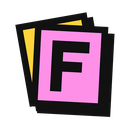
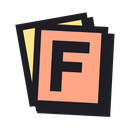
Refine Neobrutalism UI with harmonious warm pastel color palette

Changed region(s): [[0.1562, 0.1562, 0.8125, 0.8125]]

diff --git a/js/content.js b/js/content.js
@@ -63,10 +63,10 @@
         align-items: center;
         gap: 6px;
         padding: 6px 11px;
-        background: #ffd43b;
-        color: #111111;
-        border: 2px solid #111111;
-        box-shadow: 3px 3px 0 #111111;
+        background: #f2e4c6;
+        color: #1e1e24;
+        border: 2px solid #1e1e24;
+        box-shadow: 3px 3px 0 #1e1e24;
         font-size: 12px;
         font-weight: 900;
         cursor: pointer;
@@ -74,17 +74,17 @@
         transition: transform 0.08s, box-shadow 0.08s, background 0.08s;
       }
       .fc-fab:hover {
-        background: #ff90e8;
+        background: #ffa686;
         transform: translate(-1px, -1px);
-        box-shadow: 4px 4px 0 #111111;
+        box-shadow: 4px 4px 0 #1e1e24;
       }
       .fc-fab-logo {
         display: inline-grid;
         place-items: center;
         width: 18px;
         height: 18px;
-        background: #ff90e8;
-        border: 1.5px solid #111111;
+        background: #ffa686;
+        border: 1.5px solid #1e1e24;
         font-size: 11px;
         font-weight: 900;
       }
@@ -92,10 +92,10 @@
         position: fixed;
         pointer-events: auto;
         width: 310px;
-        background: #fff7e8;
-        color: #111111;
-        border: 3px solid #111111;
-        box-shadow: 6px 6px 0 #111111;
+        background: #faf7f2;
+        color: #1e1e24;
+        border: 3px solid #1e1e24;
+        box-shadow: 6px 6px 0 #1e1e24;
         padding: 16px 18px 18px;
         display: flex;
         flex-direction: column;
@@ -116,30 +116,30 @@
       .fc-close {
         width: 24px;
         height: 24px;
-        border: 2px solid #111111;
+        border: 2px solid #1e1e24;
         background: #ffffff;
-        box-shadow: 2px 2px 0 #111111;
+        box-shadow: 2px 2px 0 #1e1e24;
         font-size: 16px;
         font-weight: 900;
         line-height: 1;
         cursor: pointer;
         display: grid;
         place-items: center;
-        color: #111111;
+        color: #1e1e24;
       }
-      .fc-close:hover { background: #ff90e8; }
+      .fc-close:hover { background: #ffd1bf; }
       .fc-field {
         width: 100%;
         padding: 10px 12px;
-        border: 2px solid #111111;
+        border: 2px solid #1e1e24;
         background: #ffffff;
-        color: #111111;
+        color: #1e1e24;
         font-size: 13.5px;
         font-weight: 600;
         outline: none;
       }
       .fc-field:focus {
-        box-shadow: 2.5px 2.5px 0 #111111;
+        box-shadow: 2.5px 2.5px 0 #1e1e24;
       }
       .fc-row {
         display: grid;
@@ -153,26 +153,26 @@
         margin-top: 2px;
       }
       .fc-btn {
-        border: 2px solid #111111;
+        border: 2px solid #1e1e24;
         padding: 7px 12px;
         font-size: 12px;
         font-weight: 800;
         background: #ffffff;
-        color: #111111;
-        box-shadow: 2px 2px 0 #111111;
+        color: #1e1e24;
+        box-shadow: 2px 2px 0 #1e1e24;
         cursor: pointer;
       }
       .fc-btn-primary {
-        background: #ff90e8;
+        background: #ffa686;
       }
       .fc-btn:hover {
         transform: translate(-1px, -1px);
-        box-shadow: 3px 3px 0 #111111;
+        box-shadow: 3px 3px 0 #1e1e24;
       }
       .fc-status {
         font-size: 12px;
         font-weight: 800;
-        color: #0b7a3e;
+        color: #216e4e;
       }
     `;
     shadow.appendChild(style);

diff --git a/css/style.css b/css/style.css
@@ -1,14 +1,17 @@
 :root {
-  --bg: #fff7e8;
+  --bg: #faf7f2;
   --surface: #ffffff;
-  --sidebar: #ffd43b;
-  --ink: #111111;
-  --pink: #ff90e8;
-  --blue: #90a8ed;
-  --teal: #23a094;
-  --yellow: #ffd43b;
-  --red: #ff5c5c;
-  --muted: #5a5a5a;
+  --surface-soft: #fcfbf8;
+  --sidebar: #f2e4c6;
+  --ink: #1e1e24;
+  --pink: #ffa686;
+  --pink-hover: #ffd1bf;
+  --blue: #dce8f2;
+  --teal: #4fa39b;
+  --yellow: #fde68a;
+  --mint: #aee5be;
+  --red: #f79489;
+  --muted: #6e6a64;
   --border: 2px solid var(--ink);
   --hard-shadow: 3px 3px 0 var(--ink);
 }
@@ -137,7 +140,7 @@ button {
 }
 
 .icon-btn:hover {
-  background: var(--pink);
+  background: var(--pink-hover);
   transform: translate(-1px, -1px);
   box-shadow: 3px 3px 0 var(--ink);
 }
@@ -191,7 +194,7 @@ button {
 }
 
 .set-item:hover {
-  background: var(--pink);
+  background: var(--pink-hover);
   transform: translate(-1px, -1px);
   box-shadow: 4px 4px 0 var(--ink);
 }
@@ -250,11 +253,11 @@ button {
   font-size: 10px;
   font-weight: 900;
   border: 1.5px solid var(--ink);
-  background: #8ce99a;
+  background: var(--mint);
 }
 
 .quick-toggle[data-enabled="false"] .quick-badge {
-  background: #e5e5e5;
+  background: #eceae4;
 }
 
 .sidebar-footer {
@@ -459,7 +462,7 @@ button {
   min-width: 0;
   padding: 9px 10px;
   border: var(--border);
-  background: #fffdf6;
+  background: var(--surface-soft);
   outline: none;
   transition: box-shadow 0.08s, background 0.08s;
 }
@@ -568,7 +571,7 @@ button {
 }
 
 .word-card.selected {
-  background: #fff0fb;
+  background: #fff3ed;
 }
 
 .word-left {
@@ -686,7 +689,7 @@ button {
   padding: 18px 24px;
   color: var(--ink);
   background-color: var(--blue);
-  background-image: radial-gradient(rgba(17, 17, 17, 0.22) 1.4px, transparent 1.4px);
+  background-image: radial-gradient(rgba(30, 30, 36, 0.14) 1.4px, transparent 1.4px);
   background-size: 24px 24px;
 }
 
@@ -779,7 +782,7 @@ button {
   min-width: 0;
   padding: 10px 12px;
   border: var(--border);
-  background: #fffdf6;
+  background: var(--surface-soft);
   font-size: 15px;
   font-weight: 700;
   outline: none;
@@ -799,7 +802,7 @@ button {
 
 .quiz-opt {
   border: var(--border);
-  background: #fffdf6;
+  background: var(--surface-soft);
   padding: 10px 12px;
   font-size: 13px;
   font-weight: 700;
@@ -816,7 +819,7 @@ button {
 }
 
 .quiz-opt.correct {
-  background: #8ce99a;
+  background: var(--mint);
 }
 
 .quiz-opt.wrong {
@@ -834,12 +837,12 @@ button {
 }
 
 .study-feedback.ok {
-  color: #0b7a3e;
+  color: #216e4e;
   animation: feedback-pop 0.3s cubic-bezier(0.2, 1.4, 0.4, 1);
 }
 
 .study-feedback.err {
-  color: #c92a2a;
+  color: #b42318;
 }
 
 .fx-canvas {
@@ -915,7 +918,7 @@ button {
 }
 
 .close-btn:hover {
-  background: var(--pink);
+  background: var(--pink-hover);
   transform: translate(-1px, -1px);
   box-shadow: 3px 3px 0 var(--ink);
 }
@@ -1027,7 +1030,7 @@ button {
   display: grid;
   place-items: center;
   padding: 20px;
-  background: rgba(17, 17, 17, 0.45);
+  background: rgba(30, 30, 36, 0.42);
 }
 
 .dialog-box {
@@ -1140,7 +1143,7 @@ button {
 }
 
 .export-badge.excel {
-  background: #8ce99a;
+  background: var(--mint);
 }
 
 .export-badge.pdf {

diff --git a/js/app.js b/js/app.js
@@ -614,7 +614,7 @@ function stopFireworks() {
 }
 
 function spawnBurst(cx, cy, count) {
-  const colors = ['#ffd43b', '#ff90e8', '#8ce99a', '#4dabf7', '#ff6b6b', '#ffffff'];
+  const colors = ['#fde68a', '#ffa686', '#aee5be', '#a5c8e4', '#f79489', '#ffffff'];
   for (let i = 0; i < count; i++) {
     const angle = (Math.PI * 2 * i) / count + (Math.random() - 0.5) * 0.35;
     const speed = 2.6 + Math.random() * 5.2;

diff --git a/print.html b/print.html
@@ -6,10 +6,10 @@
   <title>Flashcards - Xuất PDF</title>
   <style>
     :root {
-      --ink: #111111;
-      --bg: #fff7e8;
-      --yellow: #ffd43b;
-      --pink: #ff90e8;
+      --ink: #1e1e24;
+      --bg: #faf7f2;
+      --yellow: #fde68a;
+      --pink: #ffa686;
     }
     * { box-sizing: border-box; }
     body {
